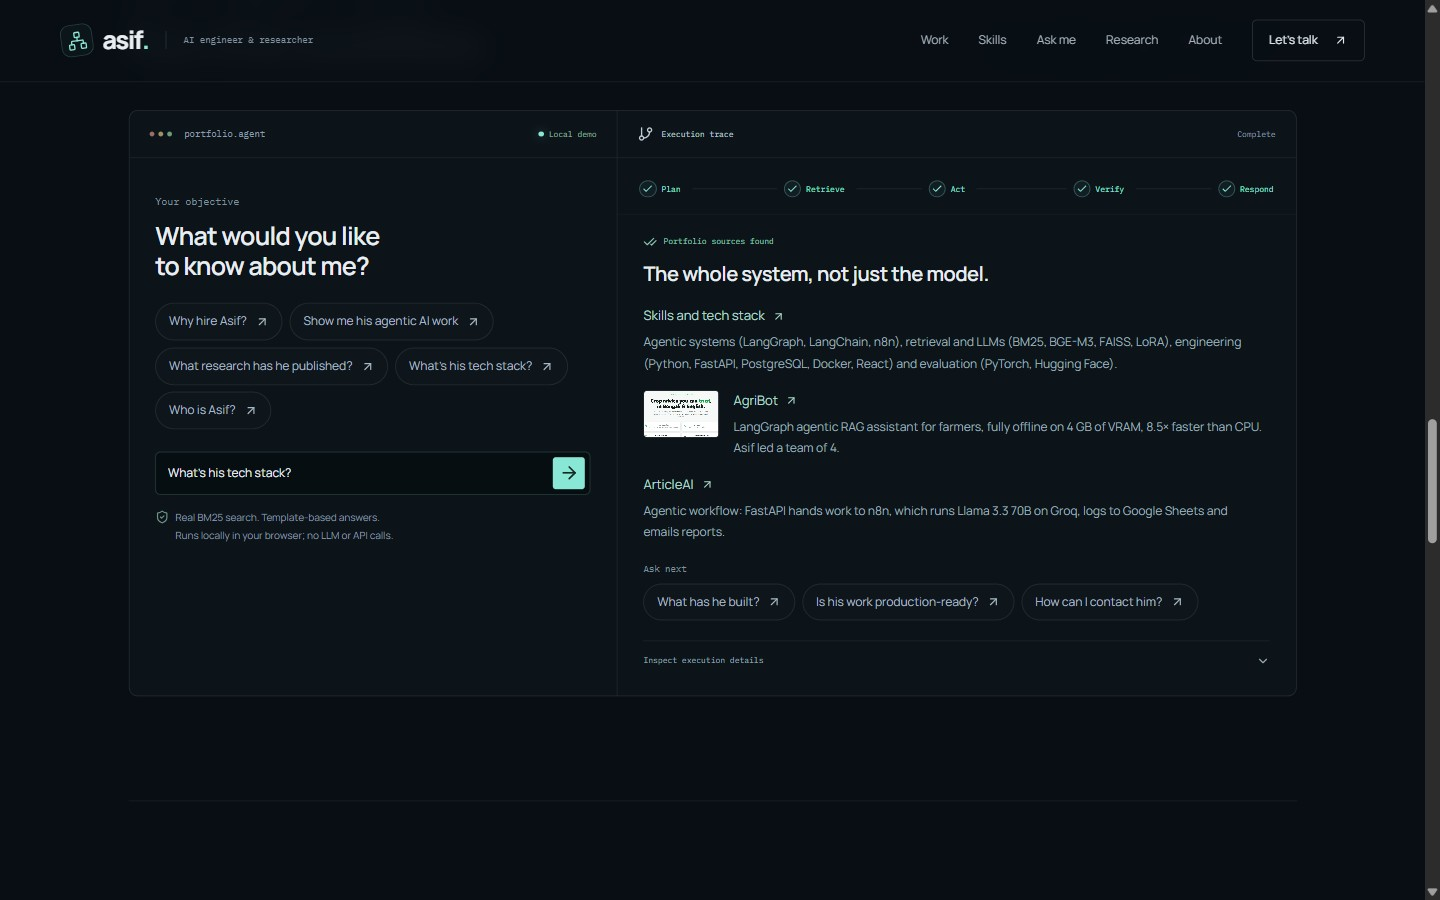
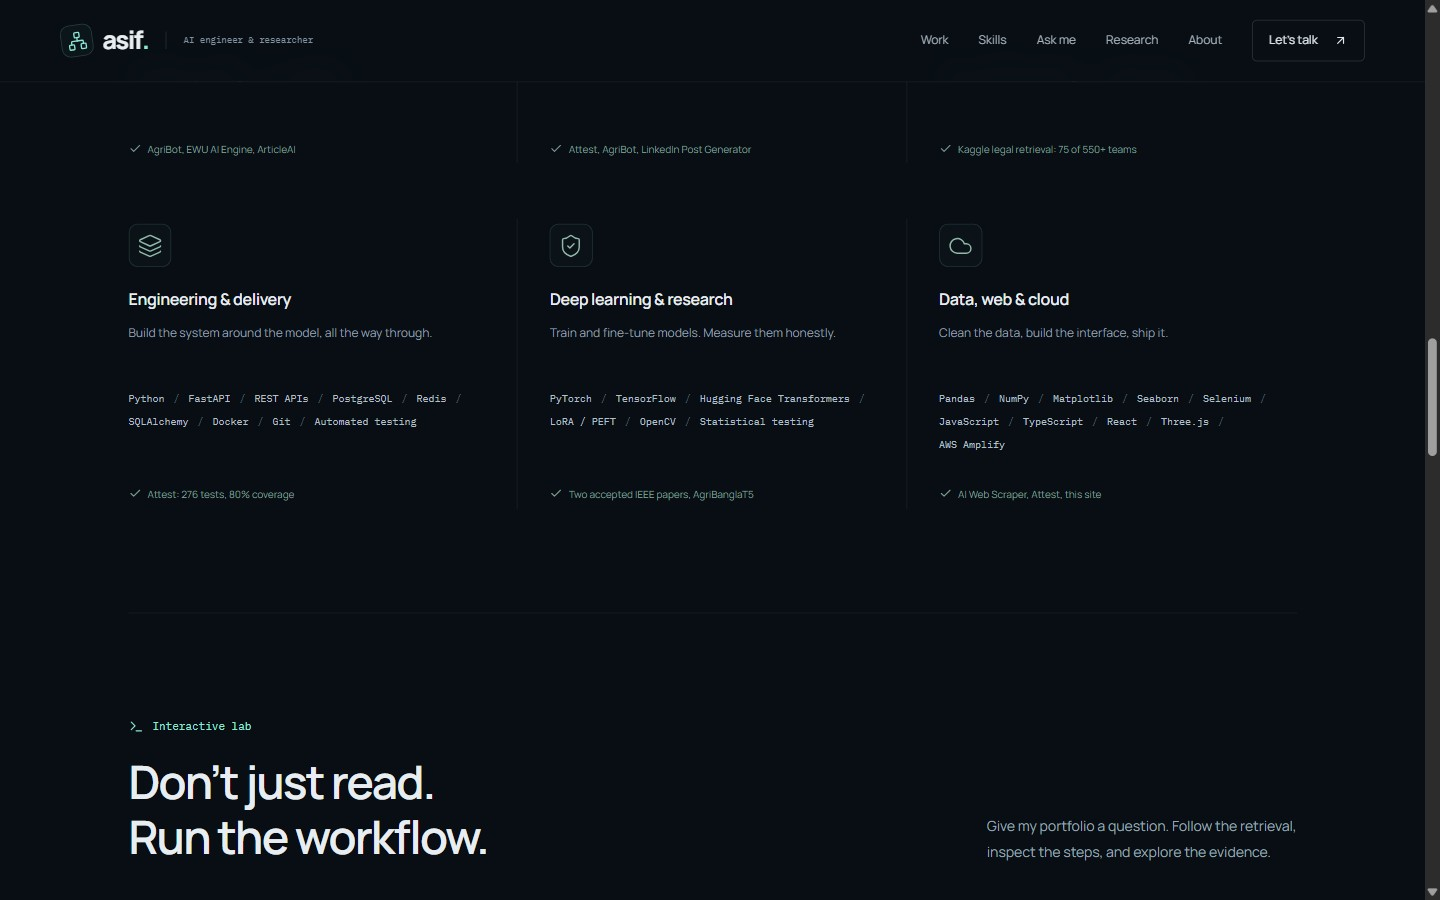
Type out the hero intro and present Asif as an AI engineer and researcher

diff --git a/src/App.tsx b/src/App.tsx
@@ -1,5 +1,6 @@
 import {
   Component,
+  Fragment,
   lazy,
   Suspense,
   useEffect,
@@ -947,9 +948,9 @@ function About() {
             Care in the details.
           </h2>
           <p>
-            I’m Asif, a final-year CSE student and undergraduate researcher at East West University.
-            I build AI for places where the constraints are real: limited hardware, unreliable
-            internet, and languages that deserve better tools.
+            I’m Asif, an AI engineer and researcher based in Dhaka. I build AI for places where the
+            constraints are real: limited hardware, unreliable internet, and languages that deserve
+            better tools.
           </p>
           <p>
             That means offline agents for Bengali-speaking farmers, document systems that show their
@@ -959,8 +960,8 @@ function About() {
             <GraduationCap size={22} />
             <div>
               <strong>B.Sc. in Computer Science & Engineering</strong>
-              <span>East West University · Expected December 2026</span>
-              <span>Undergraduate research with Dr. Farhana Huq</span>
+              <span>East West University · Class of 2026</span>
+              <span>Research with Dr. Farhana Huq</span>
             </div>
           </div>
           <div className="about-links">
@@ -1162,6 +1163,62 @@ function Contact() {
   );
 }
 
+const intro: { text: string; strong?: boolean; lineBreak?: 'always' | 'desktop' }[] = [
+  { text: 'I’m ' },
+  { text: 'Asif Hossain', strong: true },
+  { text: '. AI engineer. Researcher. Builder. ', lineBreak: 'always' },
+  { text: 'Turning language models into agents that reason, ', lineBreak: 'desktop' },
+  { text: 'use tools, and solve real problems.' },
+];
+const introText = intro.map((part) => part.text).join('');
+
+// The untyped text stays in the layout, hidden, so nothing moves while the intro types itself.
+function HeroIntro() {
+  const reduced = useReducedMotion();
+  const [typed, setTyped] = useState(0);
+  useEffect(() => {
+    if (reduced) return;
+    let count = 0;
+    let timer: ReturnType<typeof setTimeout>;
+    const typeNext = () => {
+      setTyped(++count);
+      if (count < introText.length)
+        timer = setTimeout(typeNext, introText[count - 1] === '.' ? 170 : 20);
+    };
+    timer = setTimeout(typeNext, 700);
+    return () => clearTimeout(timer);
+  }, [reduced]);
+  const shown = reduced ? introText.length : typed;
+  const done = shown === introText.length;
+  let start = 0;
+  return (
+    <p className="hero-description">
+      <span className="sr-only">{introText}</span>
+      <span aria-hidden="true">
+        {intro.map((part) => {
+          const end = start + part.text.length;
+          const visible = part.text.slice(0, Math.max(shown - start, 0));
+          const hasCursor = !reduced && shown >= start && (shown < end || end === introText.length);
+          const Tag = part.strong ? 'strong' : 'span';
+          start = end;
+          return (
+            <Fragment key={part.text}>
+              <Tag>
+                {visible}
+                {hasCursor && <span className={done ? 'typing-cursor done' : 'typing-cursor'} />}
+                <span className="typing-rest">{part.text.slice(visible.length)}</span>
+              </Tag>
+              {part.lineBreak && (
+                <br className={part.lineBreak === 'desktop' ? 'desktop-break' : undefined} />
+              )}
+            </Fragment>
+          );
+        })}
+      </span>
+    </p>
+  );
+}
+
 export default function App() {
   const [menuOpen, setMenuOpen] = useState(false);
   const [paused, setPaused] = useState(false);
@@ -1250,12 +1307,7 @@ export default function App() {
                 <br />
                 And <span className="outlined-word">get things done.</span>
               </h1>
-              <p className="hero-description">
-                I’m <strong>Asif Hossain</strong>. AI engineer. Researcher. Builder.
-                <br />
-                Turning language models into agents that reason,
-                <br className="desktop-break" /> use tools, and solve real problems.
-              </p>
+              <HeroIntro />
               <div className="hero-actions">
                 <a href="#projects" className="button-primary">
                   Explore my work <ArrowUpRight size={17} />

diff --git a/src/knowledge.ts b/src/knowledge.ts
@@ -51,9 +51,9 @@ export const KB: Document[] = [
     href: '#about',
     kind: 'profile',
     agentScore: 0,
-    text: 'About Md. Asif Hossain bio background. Final-year CSE student and undergraduate researcher at East West University in Dhaka, Bangladesh. Builds AI where the constraints are real: limited hardware, unreliable internet, and low-resource languages like Bengali. Offline agents for Bengali-speaking farmers, document systems that show their evidence, and research that tests whether an improvement holds up.',
+    text: 'About Md. Asif Hossain bio background. AI engineer and researcher based in Dhaka, Bangladesh. Builds AI where the constraints are real: limited hardware, unreliable internet, and low-resource languages like Bengali. Offline agents for Bengali-speaking farmers, document systems that show their evidence, and research that tests whether an improvement holds up.',
     summary:
-      'Final-year CSE student and undergraduate researcher at East West University in Dhaka, building AI for limited hardware, unreliable internet and low-resource languages.',
+      'AI engineer and researcher based in Dhaka, building AI for limited hardware, unreliable internet and low-resource languages.',
   },
   {
     id: 'skills',
@@ -71,9 +71,9 @@ export const KB: Document[] = [
     href: '#about',
     kind: 'profile',
     agentScore: 0,
-    text: 'Education university degree. B.Sc. in Computer Science and Engineering, CSE, at East West University, expected December 2026. Final-year student doing undergraduate research with Dr. Farhana Huq.',
+    text: 'Education university degree. B.Sc. in Computer Science and Engineering, CSE, at East West University, class of 2026. Research with Dr. Farhana Huq.',
     summary:
-      'B.Sc. in Computer Science & Engineering at East West University, expected December 2026, with undergraduate research under Dr. Farhana Huq.',
+      'B.Sc. in Computer Science & Engineering at East West University, class of 2026, with research under Dr. Farhana Huq.',
   },
   {
     id: 'articleai',
@@ -150,9 +150,8 @@ export const KB: Document[] = [
     href: '#achievements',
     kind: 'achievement',
     agentScore: 0,
-    text: 'Peer reviewer World Wide Web journal Springer Nature reviewer certificate 2026 undergraduate research review.',
-    summary:
-      'Reviewed a manuscript for Springer Nature’s World Wide Web journal as an undergraduate.',
+    text: 'Peer reviewer World Wide Web journal Springer Nature reviewer certificate 2026 research review.',
+    summary: 'Reviewed a manuscript for Springer Nature’s World Wide Web journal.',
   },
   {
     id: 'certs',

diff --git a/src/agent.ts b/src/agent.ts
@@ -65,7 +65,7 @@ const routes: Route[] = [
     pattern: /\b(hire|hiring|recruiter|strengths|good fit)\b/i,
     query: 'agentic production tests team lead champion',
     title: 'Engineering depth. Research mindset.',
-    followUps: ['Which skills does he use most?', 'Where does he study?', 'How can I contact him?'],
+    followUps: ['Which skills does he use most?', 'Where did he study?', 'How can I contact him?'],
   },
   {
     intent: 'research',
@@ -109,7 +109,7 @@ const routes: Route[] = [
     pattern:
       /\b(study|studies|studied|studying|university|degree|education|college|graduat\w*|student)\b/i,
     query: 'education university degree cse certifications',
-    title: 'Final-year CSE at East West University.',
+    title: 'Computer science at East West University.',
     tool: 'Read education and certification records',
     kinds: ['profile', 'certification'],
     followUps: [
@@ -121,11 +121,11 @@ const routes: Route[] = [
   {
     intent: 'about',
     pattern: /\b(who is|who's|background|bio|introduce|yourself|about (him|asif|you))\b/i,
-    query: 'about bio student researcher university dhaka',
+    query: 'about bio engineer researcher dhaka',
     title: 'Meet Asif.',
     tool: 'Read the biography and education records',
     kinds: ['profile'],
-    followUps: ['What’s he studying?', 'What has he built?', 'How can I contact him?'],
+    followUps: ['Where did he study?', 'What has he built?', 'How can I contact him?'],
   },
   {
     intent: 'projects',
@@ -166,11 +166,11 @@ const routes: Route[] = [
     title: 'Here’s how to reach him.',
     tool: 'Read the contact record',
     kinds: ['contact'],
-    followUps: ['What has he built?', 'Where does he study?'],
+    followUps: ['What has he built?', 'Where did he study?'],
   },
 ];
 
-const generalFollowUps = ['What has he built?', 'Where does he study?', 'How can I contact him?'];
+const generalFollowUps = ['What has he built?', 'Where did he study?', 'How can I contact him?'];
 const weakFollowUps = [
   'What has he built?',
   'Which skills does he use most?',

diff --git a/tests/portfolio.spec.ts b/tests/portfolio.spec.ts
@@ -30,6 +30,27 @@ test('production page renders WebGL, images and valid internal anchors', async (
   expect(errors).toEqual([]);
 });
 
+test('hero intro types itself without moving the layout', async ({ page }) => {
+  const untyped = () =>
+    page
+      .locator('.typing-rest')
+      .allTextContents()
+      .then((parts) => parts.join('').length);
+  await page.goto('/');
+  const intro = page.locator('.hero-description');
+  await expect(intro.locator('.sr-only')).toContainText('solve real problems.');
+  const before = await intro.boundingBox();
+  await expect.poll(untyped, { timeout: 15000 }).toBe(0);
+  await expect(intro.getByText('Asif Hossain', { exact: true })).toBeVisible();
+  expect((await intro.boundingBox())!.height).toBe(before!.height);
+
+  await page.emulateMedia({ reducedMotion: 'reduce' });
+  await page.reload();
+  await expect(page.locator('h1')).toBeVisible();
+  expect(await untyped()).toBe(0);
+  await expect(page.locator('.typing-cursor')).toHaveCount(0);
+});
+
 test('project filters update the URL and browser history', async ({ page }) => {
   await page.goto('/');
   await page.getByRole('button', { name: 'AI engineering', exact: true }).click();
@@ -190,9 +211,9 @@ test('profile questions offer follow-ups, and contact links carry a subject', as
   await expect(page.locator('.agent-result h4')).toHaveText('Meet Asif.');
   await expect(page.locator('.agent-result')).toContainText('About Asif');
   await expect(page.locator('.follow-ups button')).toHaveCount(3);
-  await page.getByRole('button', { name: 'What’s he studying?' }).click();
+  await page.getByRole('button', { name: 'Where did he study?' }).click();
   await expect(page.locator('.agent-result h4')).toHaveText(
-    'Final-year CSE at East West University.',
+    'Computer science at East West University.',
   );
   await expect(page.getByRole('link', { name: /AI engineering roles/ })).toHaveAttribute(
     'href',

diff --git a/src/styles.css b/src/styles.css
@@ -325,6 +325,31 @@ section,
   color: #d7e2e8;
   font-weight: 500;
 }
+.typing-rest {
+  visibility: hidden;
+}
+/* Zero width, so the cursor can't change where lines wrap as the text types. */
+.typing-cursor {
+  position: relative;
+}
+.typing-cursor::after {
+  content: '';
+  position: absolute;
+  top: 0.1em;
+  bottom: 0.1em;
+  left: 1px;
+  width: 2px;
+  background: var(--accent);
+}
+.typing-cursor.done::after {
+  animation: cursor-blink 0.8s steps(1) 3 forwards;
+}
+@keyframes cursor-blink {
+  50%,
+  100% {
+    opacity: 0;
+  }
+}
 .hero-actions {
   display: flex;
   align-items: center;
